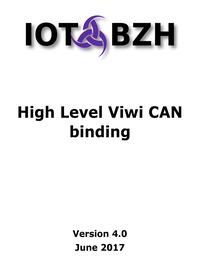
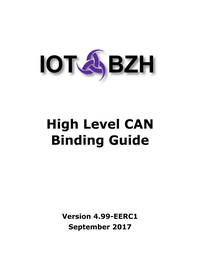
doc: bump revision to 4.99-EERC1

Changed region(s): [[0.12, 0.0305, 0.9, 0.3053], [0.09, 0.3969, 0.93, 0.5802], [0.3, 0.7939, 0.69, 0.9771]]

diff --git a/docs/Doc-Revisions.md b/docs/Doc-Revisions.md
@@ -4,4 +4,5 @@ Document revisions
 | Date        | Version | Designation                          | Author                  |
 |-------------|---------|--------------------------------------|-------------------------|
 | 07 Jun 2017 |   1.0   | Initial release                      | R.Forlot [ Iot.bzh ]    |
-| 20 Jun 2017 |   4.0   | Initial release                      | R.Forlot [ Iot.bzh ]    |
+| 20 Jun 2017 |   4.0   | Update for AGL DD                    | R.Forlot [ Iot.bzh ]    |
+| 20 Sep 2017 |   4.99-EERC1   | Update for AGL EE.RC1         | R.Forlot [ Iot.bzh ]    |
